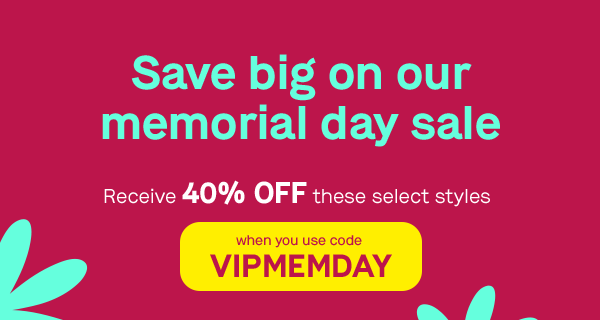
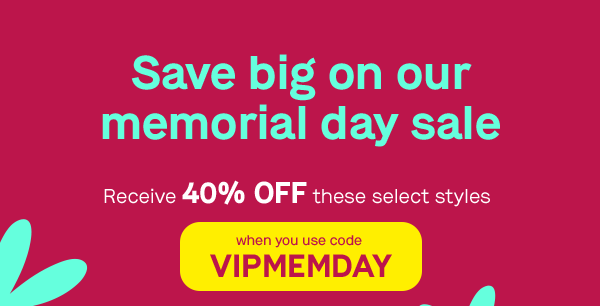
update 25 e 26

diff --git a/2022/havaianas/025_HV_20220527_CP_ECOM_MEMORIAL_DAY_5_EMKT/HV_20220527_CP_ECOM_MEMORIAL_DAY_5_EMKT.html b/2022/havaianas/025_HV_20220527_CP_ECOM_MEMORIAL_DAY_5_EMKT/HV_20220527_CP_ECOM_MEMORIAL_DAY_5_EMKT.html
@@ -172,14 +172,14 @@
           <tr>
             <td>
               <a href="https://havaianas.com/us/en/shop/memorial-day-sale-exclusive/?utm_source=salesforce_blast&utm_medium=email&utm_campaign=HV_20220527_CP_ECOM_MEMORIAL_DAY_5_EMKT" target="_blank">
-                <img border="0" style="display: block;" src="https://image.na.havaianas.com/lib/fe3711717164047a751774/m/7/96729479-7111-490d-8572-967b4c388d4f.png" alt="Save big on our memorial day sale Receive 40% OFF these select styles when you use code VIPMEMDAY">
+                <img border="0" style="display: block;" src="https://image.na.havaianas.com/lib/fe3711717164047a751774/m/7/8d9d19dc-00b4-4818-b041-1dfd14ff4bf3.png" alt="Save big on our memorial day sale Receive 40% OFF these select styles when you use code VIPMEMDAY">
               </a>
             </td>
           </tr>
           <tr>
             <td>
               <a href="https://havaianas.com/us/en/shop/memorial-day-sale-exclusive/?utm_source=salesforce_blast&utm_medium=email&utm_campaign=HV_20220527_CP_ECOM_MEMORIAL_DAY_5_EMKT" target="_blank">
-                <img border="0" style="display: block;" src="https://image.na.havaianas.com/lib/fe3711717164047a751774/m/7/6a85a990-202b-4e4b-b3a9-f22d751b73e9.gif" alt="i want it">
+                <img border="0" style="display: block;" src="https://image.na.havaianas.com/lib/fe3711717164047a751774/m/7/78b4847b-24a8-4e8d-9a2e-cf8abe105648.gif" alt="i want it">
               </a>
             </td>
           </tr>

diff --git a/2022/havaianas/026_Repic_HV_20220529_CP_ECOM_MEMORIAL_DAY_7_EMKT/Repic_HV_20220529_CP_ECOM_MEMORIAL_DAY_7_EMKT.html b/2022/havaianas/026_Repic_HV_20220529_CP_ECOM_MEMORIAL_DAY_7_EMKT/Repic_HV_20220529_CP_ECOM_MEMORIAL_DAY_7_EMKT.html
@@ -172,14 +172,14 @@
           <tr>
             <td>
               <a href="https://havaianas.com/us/en/shop/memorial-day-sale-exclusive/?utm_source=salesforce_blast&utm_medium=email&utm_campaign=HV_20220529_CP_ECOM_MEMORIAL_DAY_7_EMKT" target="_blank">
-                <img border="0" style="display: block;" src="https://image.na.havaianas.com/lib/fe3711717164047a751774/m/7/96729479-7111-490d-8572-967b4c388d4f.png" alt="Save big on our memorial day sale Receive 40% OFF these select styles when you use code VIPMEMDAY">
+                <img border="0" style="display: block;" src="https://image.na.havaianas.com/lib/fe3711717164047a751774/m/7/8d9d19dc-00b4-4818-b041-1dfd14ff4bf3.png" alt="Save big on our memorial day sale Receive 40% OFF these select styles when you use code VIPMEMDAY">
               </a>
             </td>
           </tr>
           <tr>
             <td>
               <a href="https://havaianas.com/us/en/shop/memorial-day-sale-exclusive/?utm_source=salesforce_blast&utm_medium=email&utm_campaign=HV_20220529_CP_ECOM_MEMORIAL_DAY_7_EMKT" target="_blank">
-                <img border="0" style="display: block;" src="https://image.na.havaianas.com/lib/fe3711717164047a751774/m/7/6a85a990-202b-4e4b-b3a9-f22d751b73e9.gif" alt="i want it">
+                <img border="0" style="display: block;" src="https://image.na.havaianas.com/lib/fe3711717164047a751774/m/7/78b4847b-24a8-4e8d-9a2e-cf8abe105648.gif" alt="i want it">
               </a>
             </td>
           </tr>
